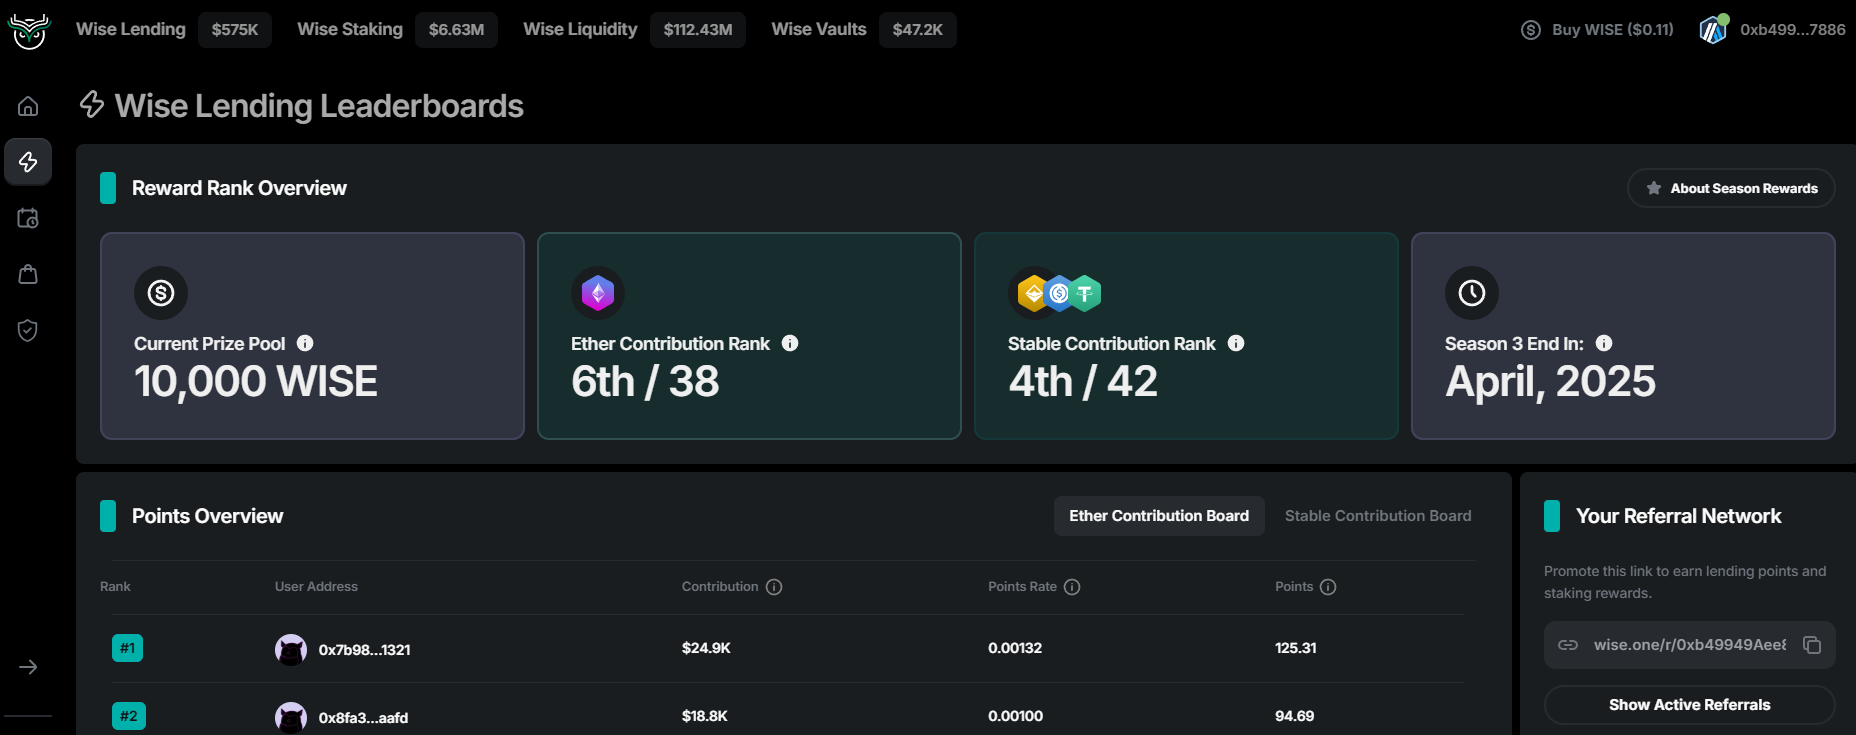
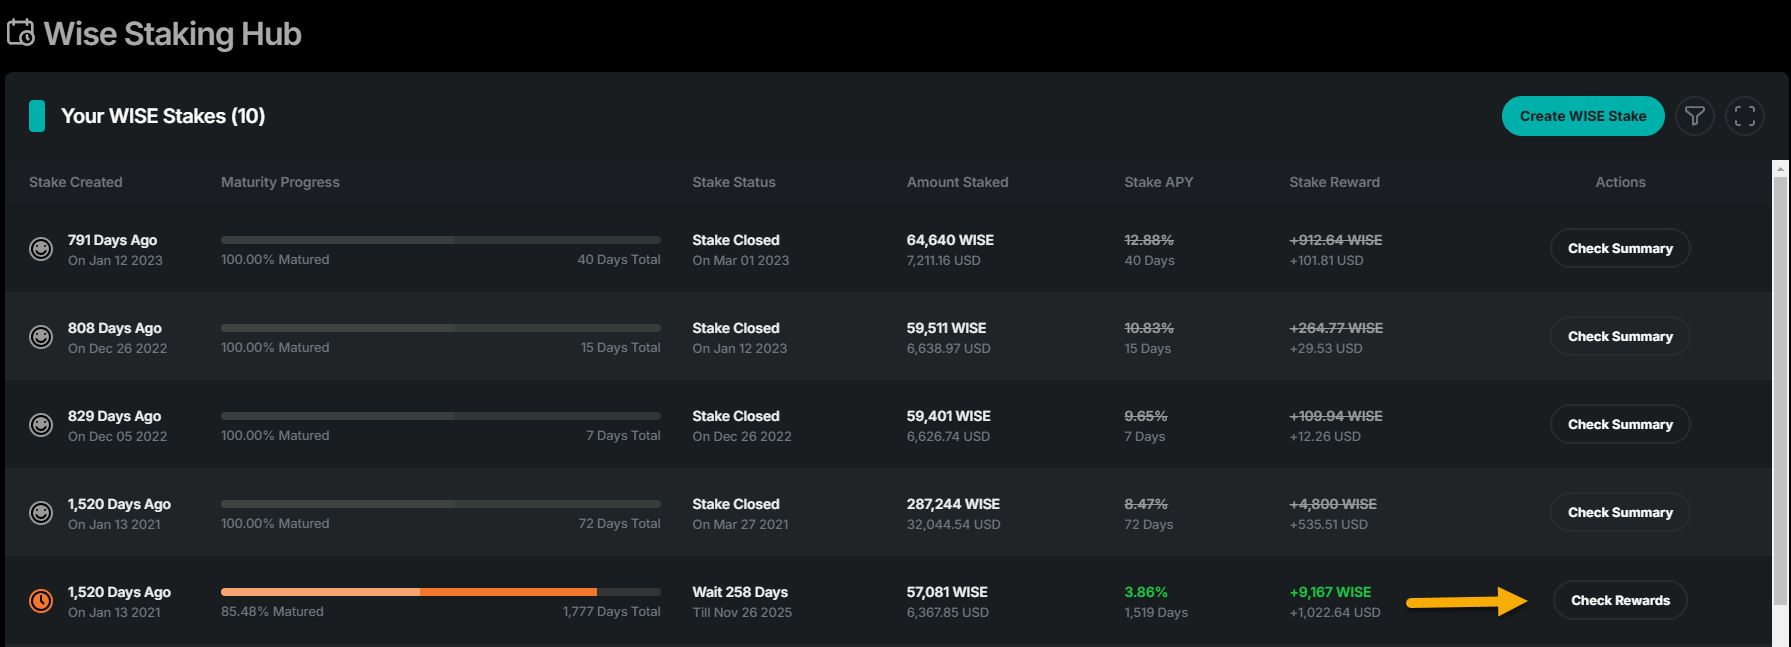
GITBOOK-5: No subject

diff --git a/wise/wise-token/staking-wise/Staking_WISE.md b/wise/wise-token/staking-wise/Staking_WISE.md
@@ -8,44 +8,39 @@
 
 WISE stakers are rewarded for making WISE more scarce by locking it up. Staking rewards are funded with 75% of the annual WISE inflation (25% funds referrals). Unstaking WISE early is penalized, so staking WISE creates a supply shock and a predictable future price floor.
 
-To start a stake, go to [https://wise.one/staking/hub](https://wise.one/staking/hub). and click "Create WISE stake".\
-By default, the selector "I prefer this stake to be transferable" is off. \
-That means the stake is not transferable, but is scrapable.\
-If the selector "I prefer this stake to be transferable" is turned on, the stake is transferable (to another wallet or used DEFI project), but not scrapable.\
-In the near future, a full WISE stake version will be released (transferable and scrapable)
+To start a stake, go to [https://wise.one/staking/hub](https://wise.one/staking/hub). and click "Create WISE stake".
 
 <figure><img src="../../../.gitbook/assets/image (4).png" alt=""><figcaption><p>starting a WISE stake</p></figcaption></figure>
 
-Input the amount of ETH or WISE you wish to use for your stake (ETH will be converted to WISE for the stake if you select that option). Then input the desired stake length in days. On the right you will see two ways to increase the amount of shares on your stake. Shares directly affect the APY you will earn on your stake, so it is best to get all the bonuses you can. You gain an extra flat 10% APY from using a referral link (you can select "Wise team referral" in the referral section if you need one). Select "cookie referral addy" instead if you have used a link from a friend.
+The 5 green arrows are the settings, and the yellow are the bonuses.&#x20;
 
-![finalizing your WISE stake](staking-wise-a6fa75b2.jpg)
+Input the **Staking Amount** of ETH or WISE you wish to use for your stake (ETH will be converted to WISE for the stake if you select that option).
 
-finalizing your WISE stake
+Input the desired **Stake Duration** in days. The bonus increases based on the number of days following a piecewise linear progression (see the documentation).&#x20;
 
-The other way to increase your shares is to stake for a longer period of time. You can get an extra 5% bonus shares for every year you stake up to 25% for 5 years. A 10 year stake will earn significantly more than two back-to-back 5 year stakes, because you get to keep your original share price for double the time. Since share rate increases every time someone closes a stake, this will add up to significantly more APY over the final 5 years.
+If you entered the website with a referral link, you will see the 10% **Referral Bonus** \
+If not, you can choose a team referral address with the selector **I want to use team referral address** &#x20;
 
-\*\*HIGH Gas costs for starting/ending stakes:\*\*Our shares system and referral rewards make our staking contract much more complicated than a simple lock-up. Ending a stake costs much more than a simple swap, and the cost grows with the length of the stake. Holders must monitor Ethereum gas prices, start and end stakes during periods of low gas demand, and stake larger amounts ($5000+ for example).
+By default, the selector **I prefer this stake to be transferable** is off. \
+That means the stake is not transferable, but is scrapable.\
+If the selector **I prefer this stake to be transferable** is turned on, the stake is transferable (to another wallet or used DEFI project), but not scrapable.\
+In the near future, a full WISE stake version will be released (transferable and scrapable)
+
+**HIGH Gas costs for starting/ending stakes:**\*\*\
+Our shares system and referral rewards make our staking contract much more complicated than a simple lock-up. Ending a stake costs much more than a simple swap, and the cost grows with the length of the stake. Holders must monitor Ethereum gas prices, start and end stakes during periods of low gas demand, and stake larger amounts ($5000+ for example).
 
 ### Scraping interest on WISE stakes:
 
 The interest earned on WISE stakes can be collected at any time by scraping. This does not affect the principal amount of staked WISE, but it does reset the shares amount of the stake, meaning the shares advantage for staking earlier is reset as if the stake was started on the day you scrape. This will cause a significant reduction in APY for the remainder of your stake, so scraping is not recommended unless the stake is nearing maturity. Subsequent scrapes do cost significantly less gas, and closing scraped stakes will cost slightly reduce gas fees.
 
-![scraping WISE stakes](staking-wise-26dc06b4.jpg)
+<figure><img src="../../../.gitbook/assets/image.png" alt=""><figcaption><p>Click to see the current stake status and scrapable rewards</p></figcaption></figure>
 
-scraping WISE stakes
+<figure><img src="../../../.gitbook/assets/image (1).png" alt=""><figcaption><p>Scrape or Terminate the stake</p></figcaption></figure>
 
-To scrape, click the magnifying glass on the right hand side of your stake, then scroll down on the left hand side of the pop-up to find the button to scrape the interest on your stake.
+### Terminate a WISE Stake Before Maturity:
 
-### Ending a WISE Stake Before Maturity:
+You can end your stake any time before maturity for a significant penalty. The penalty is equivalent to the percentage of time you have not completed on your stake. \
+For example, a 100 day stake ended on day 30 will cost 70% of your principal to end. The penalized WISE is distributed proportionally among the remaining WISE stakers. Interest earned on stakes is never penalized.\
+Note : if you create a stake one day, it will really begin at midnight that day. You can terminate it any time during that day without penalty. &#x20;
 
-You can end your stake any time before maturity for a significant penalty. The penalty is equivalent to the percentage of time you have not completed on your stake. For example a 100 day stake ended on day 30 will cost 70% of your principal to end. The penalized WISE is distributed proportionally among the remaining WISE stakers. Interest earned on stakes is never penalized.
-
-![Early End Staking](staking-wise-cfffe6ee.jpg)
-
-Early End Staking
-
-To end your stake, click the orange X on the right hand side of your stake, and then click the "TERMINATE STAKE" button on the pop-up.
-
-[PreviousWISE Token](../)[NextWISE referrals](../wise-referrals/)
-
-Last updated 9 months ago
+[Previous WISE Token](../)  [Next WISE referrals](../wise-referrals/)

diff --git a/wise/wise-lending/leaderboards/Leaderboards.md b/wise/wise-lending/leaderboards/Leaderboards.md
@@ -6,7 +6,7 @@
 
 Our leaderboards are where we track and reward users' contribution to Wise Lending using a points system. The boards can be accessed by clicking the gem tab in the app, where you can toggle between the Ether and Stable Coin leaderboards. To start climbing ranks, simply deposit funds into Wise Lending. You can gain additional points by sharing your referral link with others, and you will earn **10%** of the points generated from the deposits of users in your network. There is no points penalty for withdrawing funds from Wise Lending, but you will stop earning points on those funds withdrawn.
 
-<figure><img src="../../../.gitbook/assets/image.png" alt=""><figcaption><p>Wise Lending Leaderboards</p></figcaption></figure>
+<figure><img src="../../../.gitbook/assets/image (2).png" alt=""><figcaption><p>Wise Lending Leaderboards</p></figcaption></figure>
 
 #### Prize Pool
 
@@ -16,7 +16,7 @@ The amount in the prize pool is directly correlated with the total value locked 
 
 Once the prize pool is distributed, users can claim their share using the claim button in the widget on the bottom right of the screen. There is no time limit to claim, and additional rewards will stack up until claimed.
 
-<figure><img src="../../../.gitbook/assets/image (1).png" alt=""><figcaption><p>Claiming rewards</p></figcaption></figure>
+<figure><img src="../../../.gitbook/assets/image (1) (1).png" alt=""><figcaption><p>Claiming rewards</p></figcaption></figure>
 
 #### For information about referrals, see [Referral System](../referral-system/)
 

diff --git a/wise/wise-lending/referral-system/Referral_System.md b/wise/wise-lending/referral-system/Referral_System.md
@@ -12,7 +12,7 @@ Our referral system is open-source and on-chain. Promoters can start growing the
 
 The info for your referral network can be seen in a widget on the right side of the screen. In that box you have a link to copy and share. Your friends and family will need to visit your link, connect their crypto wallet, and sign a message to join your network (no gas needed). Everyone should join a referral network because both the referrer and the referee get 10% extra points for participating.
 
-<figure><img src="../../../.gitbook/assets/image (2).png" alt=""><figcaption><p>Click here to Copy your unique Referral Link</p></figcaption></figure>
+<figure><img src="../../../.gitbook/assets/image (2) (1).png" alt=""><figcaption><p>Click here to Copy your unique Referral Link</p></figcaption></figure>
 
 To view your current network, click the "Show Active Referrals" button and you will see your Referral Breakdown.
 
